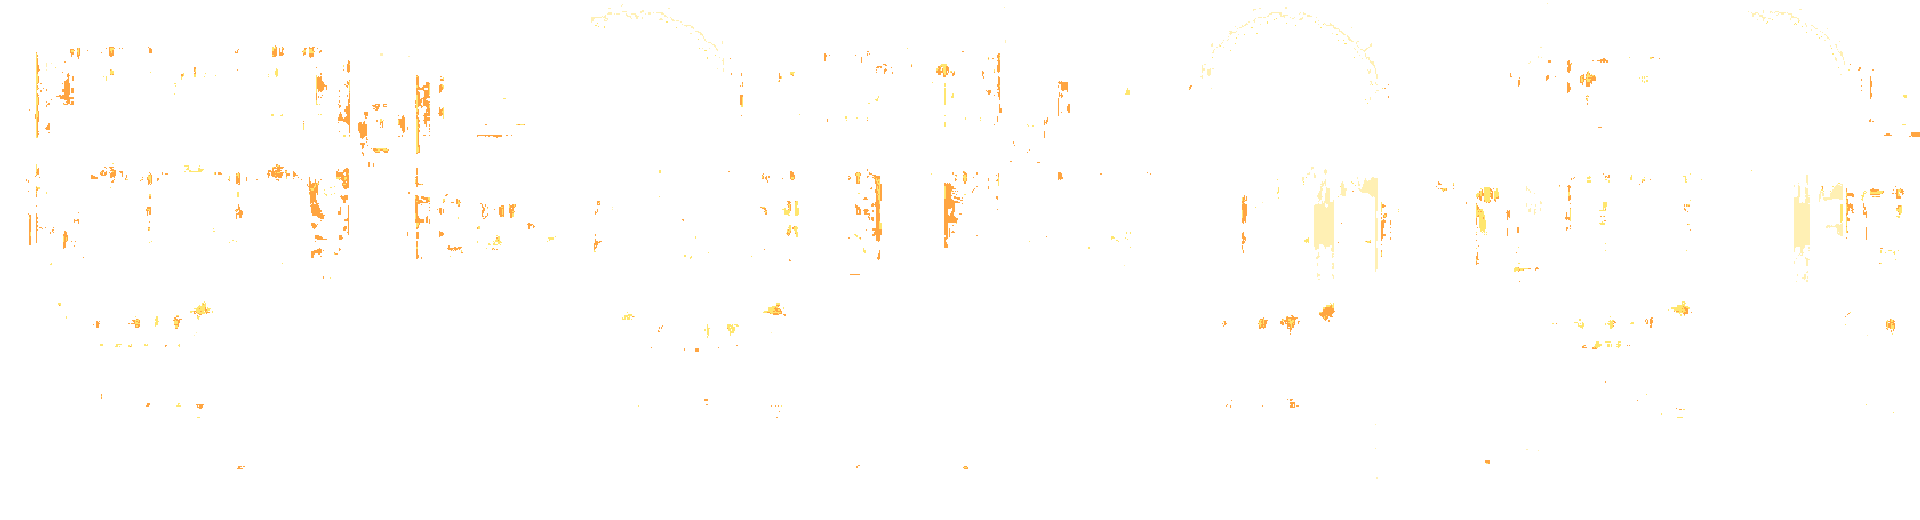
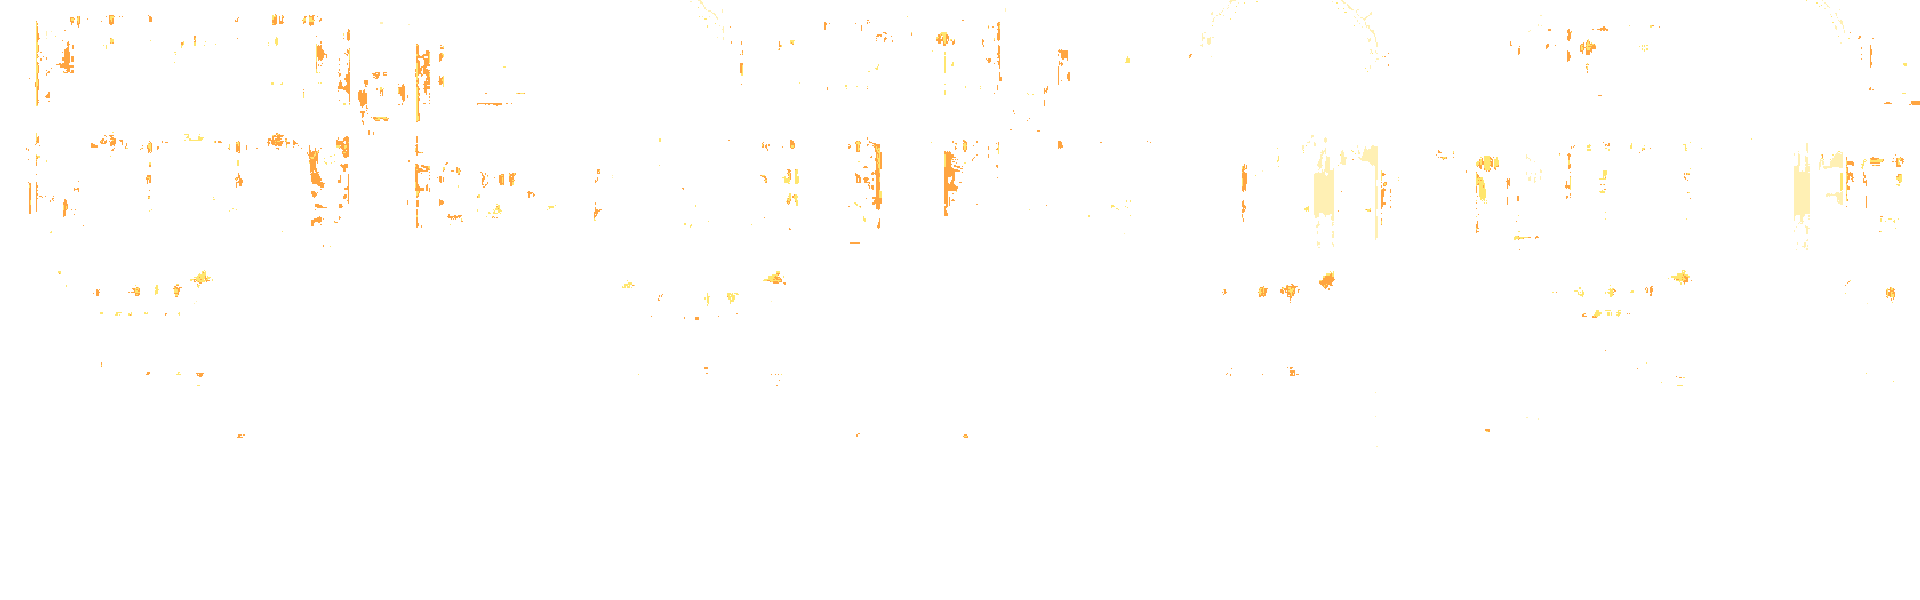
feat: scale non-transparent background content to standard 1920x600 without cropping

diff --git a/scripts/process_landscape_theme.js b/scripts/process_landscape_theme.js
@@ -137,32 +137,36 @@ export async function processLandscapeFolder(folderPath) {
       }
     }
 
-    // Tìm bounding box dọc của nội dung thực tế (loại bỏ dải trắng trống trên trời và dưới đáy)
-    let firstContentY = -1;
-    let lastContentY = -1;
+    // Nhận diện phần nội dung thực tế (non-transparent content) - Tuyệt đối KHÔNG cắt bỏ chi tiết
+    let minY = -1;
+    let maxY = -1;
     for (let y = 0; y < h; y++) {
       let contentPixels = 0;
       for (let x = 0; x < w; x++) {
         if (!isOutdoorBg[y * w + x]) contentPixels++;
       }
-      if (contentPixels > w * 0.02 && firstContentY === -1) firstContentY = y;
-      if (contentPixels > w * 0.02) lastContentY = y;
+      if (contentPixels >= 2) {
+        if (minY === -1) minY = y;
+        maxY = y;
+      }
     }
 
-    const cropTop = Math.max(0, firstContentY - 10);
-    const cropBottom = Math.min(h, lastContentY + 2);
-    const cropHeight = Math.max(100, cropBottom - cropTop);
+    if (minY === -1) {
+      minY = 0;
+      maxY = h - 1;
+    }
 
-    console.log(`   Khung chứa tranh phong cảnh nhận diện: y=${cropTop} -> y=${cropBottom} (cao ${cropHeight}px)`);
+    const contentH = maxY - minY + 1;
+    console.log(`   Khung chứa tranh phong cảnh (phần non-transparent): y=${minY} -> y=${maxY} (cao ${contentH}px, rộng nguyên bản ${w}px - KHÔNG CẮT BỎ CHI TIẾT)`);
 
-    const bgRgba = Buffer.alloc(w * cropHeight * 4);
-    const bgLightsRgba = Buffer.alloc(w * cropHeight * 4);
+    const bgContentRgba = Buffer.alloc(w * contentH * 4);
+    const bgLightsContentRgba = Buffer.alloc(w * contentH * 4);
 
     let protectedWhites = 0;
     let lightsCount = 0;
 
-    for (let y = 0; y < cropHeight; y++) {
-      const origY = cropTop + y;
+    for (let y = 0; y < contentH; y++) {
+      const origY = minY + y;
       for (let x = 0; x < w; x++) {
         const srcIdx = (origY * w + x) * info.channels;
         const destIdx = (y * w + x) * 4;
@@ -174,8 +178,8 @@ export async function processLandscapeFolder(folderPath) {
 
         if (isBg) {
           // Bầu trời ngoài trời -> 100% Trong suốt
-          bgRgba[destIdx + 3] = 0;
-          bgLightsRgba[destIdx + 3] = 0;
+          bgContentRgba[destIdx + 3] = 0;
+          bgLightsContentRgba[destIdx + 3] = 0;
         } else {
           if (r >= 240 && g >= 240 && b >= 240) {
             protectedWhites++;
@@ -190,31 +194,31 @@ export async function processLandscapeFolder(folderPath) {
 
           if (isBorderPixel && r > 230 && g > 230 && b > 230) {
             // Điểm tiếp giáp quá sáng do nén JPEG -> làm trong suốt viền
-            bgRgba[destIdx + 3] = 0;
-            bgLightsRgba[destIdx + 3] = 0;
+            bgContentRgba[destIdx + 3] = 0;
+            bgLightsContentRgba[destIdx + 3] = 0;
             continue;
           }
 
           // Lượng tử hóa màu nhẹ (Pixel art color quantization)
-          bgRgba[destIdx] = Math.min(255, Math.round(r / 4) * 4);
-          bgRgba[destIdx + 1] = Math.min(255, Math.round(g / 4) * 4);
-          bgRgba[destIdx + 2] = Math.min(255, Math.round(b / 4) * 4);
-          bgRgba[destIdx + 3] = 255;
+          bgContentRgba[destIdx] = Math.min(255, Math.round(r / 4) * 4);
+          bgContentRgba[destIdx + 1] = Math.min(255, Math.round(g / 4) * 4);
+          bgContentRgba[destIdx + 2] = Math.min(255, Math.round(b / 4) * 4);
+          bgContentRgba[destIdx + 3] = 255;
 
           // Trích xuất đèn đêm:
           const isWarmYellow = (r > 195 && g > 165 && b < 145);
           const isAmber = (r > 200 && g > 125 && b < 85);
           const isCyan = (b > 175 && g > 160 && r < 140);
-          const isBrightWindow = (r > 220 && g > 215 && b > 205 && (r - b > 10 || origY > cropTop + cropHeight * 0.3));
+          const isBrightWindow = (r > 220 && g > 215 && b > 205 && (r - b > 10 || origY > minY + contentH * 0.3));
 
           if (isWarmYellow || isAmber || isCyan || isBrightWindow) {
             lightsCount++;
-            bgLightsRgba[destIdx] = 255;
-            bgLightsRgba[destIdx + 1] = isWarmYellow ? 230 : isAmber ? 165 : isCyan ? 245 : 240;
-            bgLightsRgba[destIdx + 2] = isWarmYellow ? 110 : isAmber ? 65 : isCyan ? 255 : 180;
-            bgLightsRgba[destIdx + 3] = 255;
+            bgLightsContentRgba[destIdx] = 255;
+            bgLightsContentRgba[destIdx + 1] = isWarmYellow ? 230 : isAmber ? 165 : isCyan ? 245 : 240;
+            bgLightsContentRgba[destIdx + 2] = isWarmYellow ? 110 : isAmber ? 65 : isCyan ? 255 : 180;
+            bgLightsContentRgba[destIdx + 3] = 255;
           } else {
-            bgLightsRgba[destIdx + 3] = 0;
+            bgLightsContentRgba[destIdx + 3] = 0;
           }
         }
       }
@@ -223,19 +227,51 @@ export async function processLandscapeFolder(folderPath) {
     console.log(`   🛡 Đã bảo vệ ${protectedWhites.toLocaleString()} pixel trắng nội cảnh không bị cắt nhầm!`);
     console.log(`   ✨ Đã trích xuất ${lightsCount.toLocaleString()} bóng đèn đêm cho background_lights.png!`);
 
-    // Lưu background.png chuẩn 1920x520 px
-    await sharp(bgRgba, { raw: { width: w, height: cropHeight, channels: 4 } })
-      .resize(1920, 520, { kernel: 'nearest' })
+    // Scale phần non-transparent về kích thước chuẩn và ghép vào khung canvas 1920x600 px
+    // (chuẩn đồng bộ 100% với các ga Đà Lạt, Hạ Long, Sa Pa, giữ 140px khoảng đệm trong suốt phía dưới để không bị đường ray che khuất)
+    const targetCanvasW = 1920;
+    const targetCanvasH = 600;
+    const targetArtH = 460;
+
+    console.log(`   📐 Đang scale phần non-transparent về kích thước: ${targetCanvasW}px x ${targetArtH}px trên canvas chuẩn ${targetCanvasW}px x ${targetCanvasH}px`);
+
+    const scaledArtBuffer = await sharp(bgContentRgba, { raw: { width: w, height: contentH, channels: 4 } })
+      .resize(targetCanvasW, targetArtH, { kernel: 'nearest' })
+      .png()
+      .toBuffer();
+
+    const scaledLightsBuffer = await sharp(bgLightsContentRgba, { raw: { width: w, height: contentH, channels: 4 } })
+      .resize(targetCanvasW, targetArtH, { kernel: 'nearest' })
+      .png()
+      .toBuffer();
+
+    // Lưu background.png chuẩn 1920x600 px
+    await sharp({
+      create: {
+        width: targetCanvasW,
+        height: targetCanvasH,
+        channels: 4,
+        background: { r: 0, g: 0, b: 0, alpha: 0 }
+      }
+    })
+      .composite([{ input: scaledArtBuffer, left: 0, top: 0 }])
       .png({ compressionLevel: 9 })
       .toFile(path.join(fullPath, 'background.png'));
 
-    // Lưu background_lights.png
-    await sharp(bgLightsRgba, { raw: { width: w, height: cropHeight, channels: 4 } })
-      .resize(1920, 520, { kernel: 'nearest' })
+    // Lưu background_lights.png chuẩn 1920x600 px
+    await sharp({
+      create: {
+        width: targetCanvasW,
+        height: targetCanvasH,
+        channels: 4,
+        background: { r: 0, g: 0, b: 0, alpha: 0 }
+      }
+    })
+      .composite([{ input: scaledLightsBuffer, left: 0, top: 0 }])
       .png({ compressionLevel: 9 })
       .toFile(path.join(fullPath, 'background_lights.png'));
 
-    console.log(`   ✅ Đã xuất background.png & background_lights.png thành công!`);
+    console.log(`   ✅ Đã xuất background.png & background_lights.png chuẩn 1920x600 thành công!`);
   }
 
   // =======================================================================
